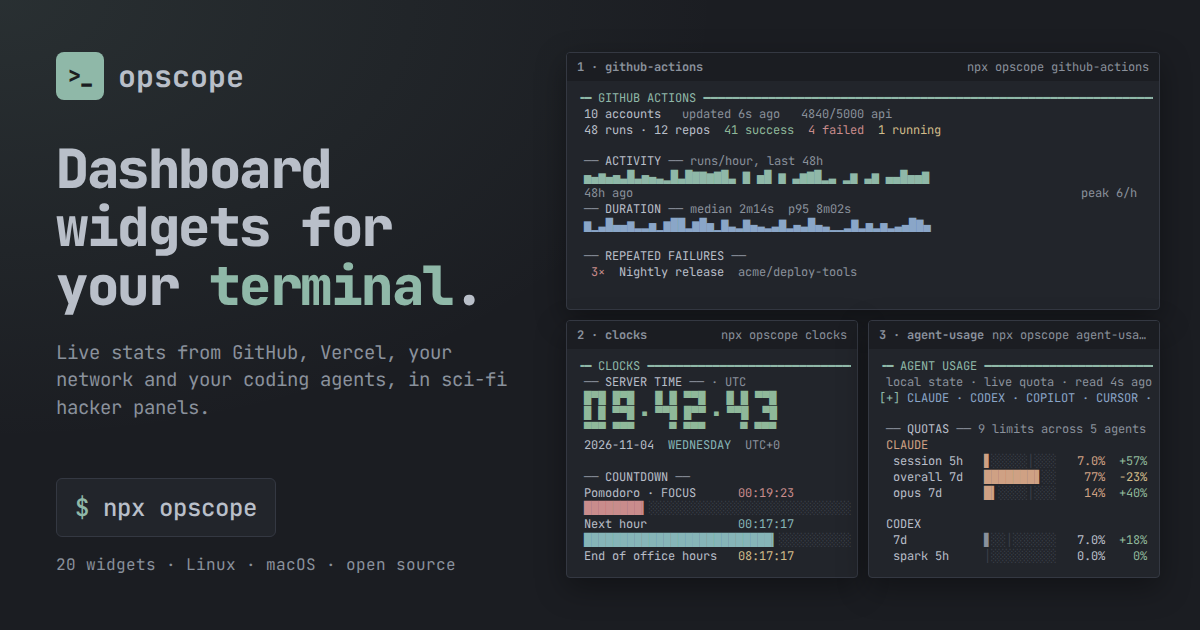
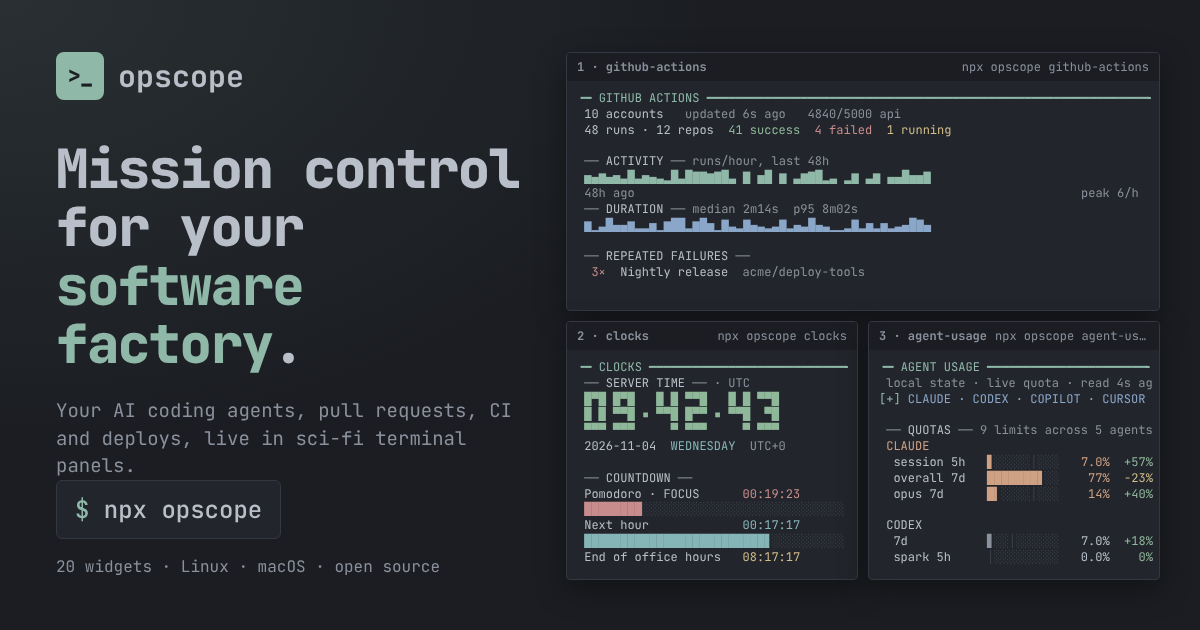
feat: lead with "Mission control for your software factory" (#25)
* feat: lead with "Mission control for your software factory"

Swap the headline, page title, meta and social-card description, the
OG image and the shell's `opscope --about` for the software factory
positioning. The Hollywood eyebrow stays. public/og.png is regenerated
with `npm run og`.

Claude-Session: https://claude.ai/code/session_01KVgNwtS5ALwP7AGX2Y4jVB

* feat: work AI agents into the title, meta and structured data

Search copy now carries "software factory", "AI" and "agents" together:
the page title, meta and OG description, JSON-LD keywords, the web
manifest, the social card subline (og.png regenerated) and the shell's
about line.

Claude-Session: https://claude.ai/code/session_01KVgNwtS5ALwP7AGX2Y4jVB

---------

diff --git a/src/scripts/shell.ts b/src/scripts/shell.ts
@@ -307,7 +307,7 @@ export async function startShell() {
 
 	const about = () => {
 		line(paint('# Hollywood called. They want their terminal back.', 'mu'));
-		line(`Dashboard widgets for your ${paint('terminal', 'acc')}: live stats in sci-fi hacker panels.`);
+		line(`Mission control for your ${paint('software factory', 'acc')}: your AI coding agents, PRs, CI and deploys, live.`);
 		line(`${widgets.length} widgets for Linux and macOS. ${paint('ls', 'acc')} to see them.`);
 	};
 
